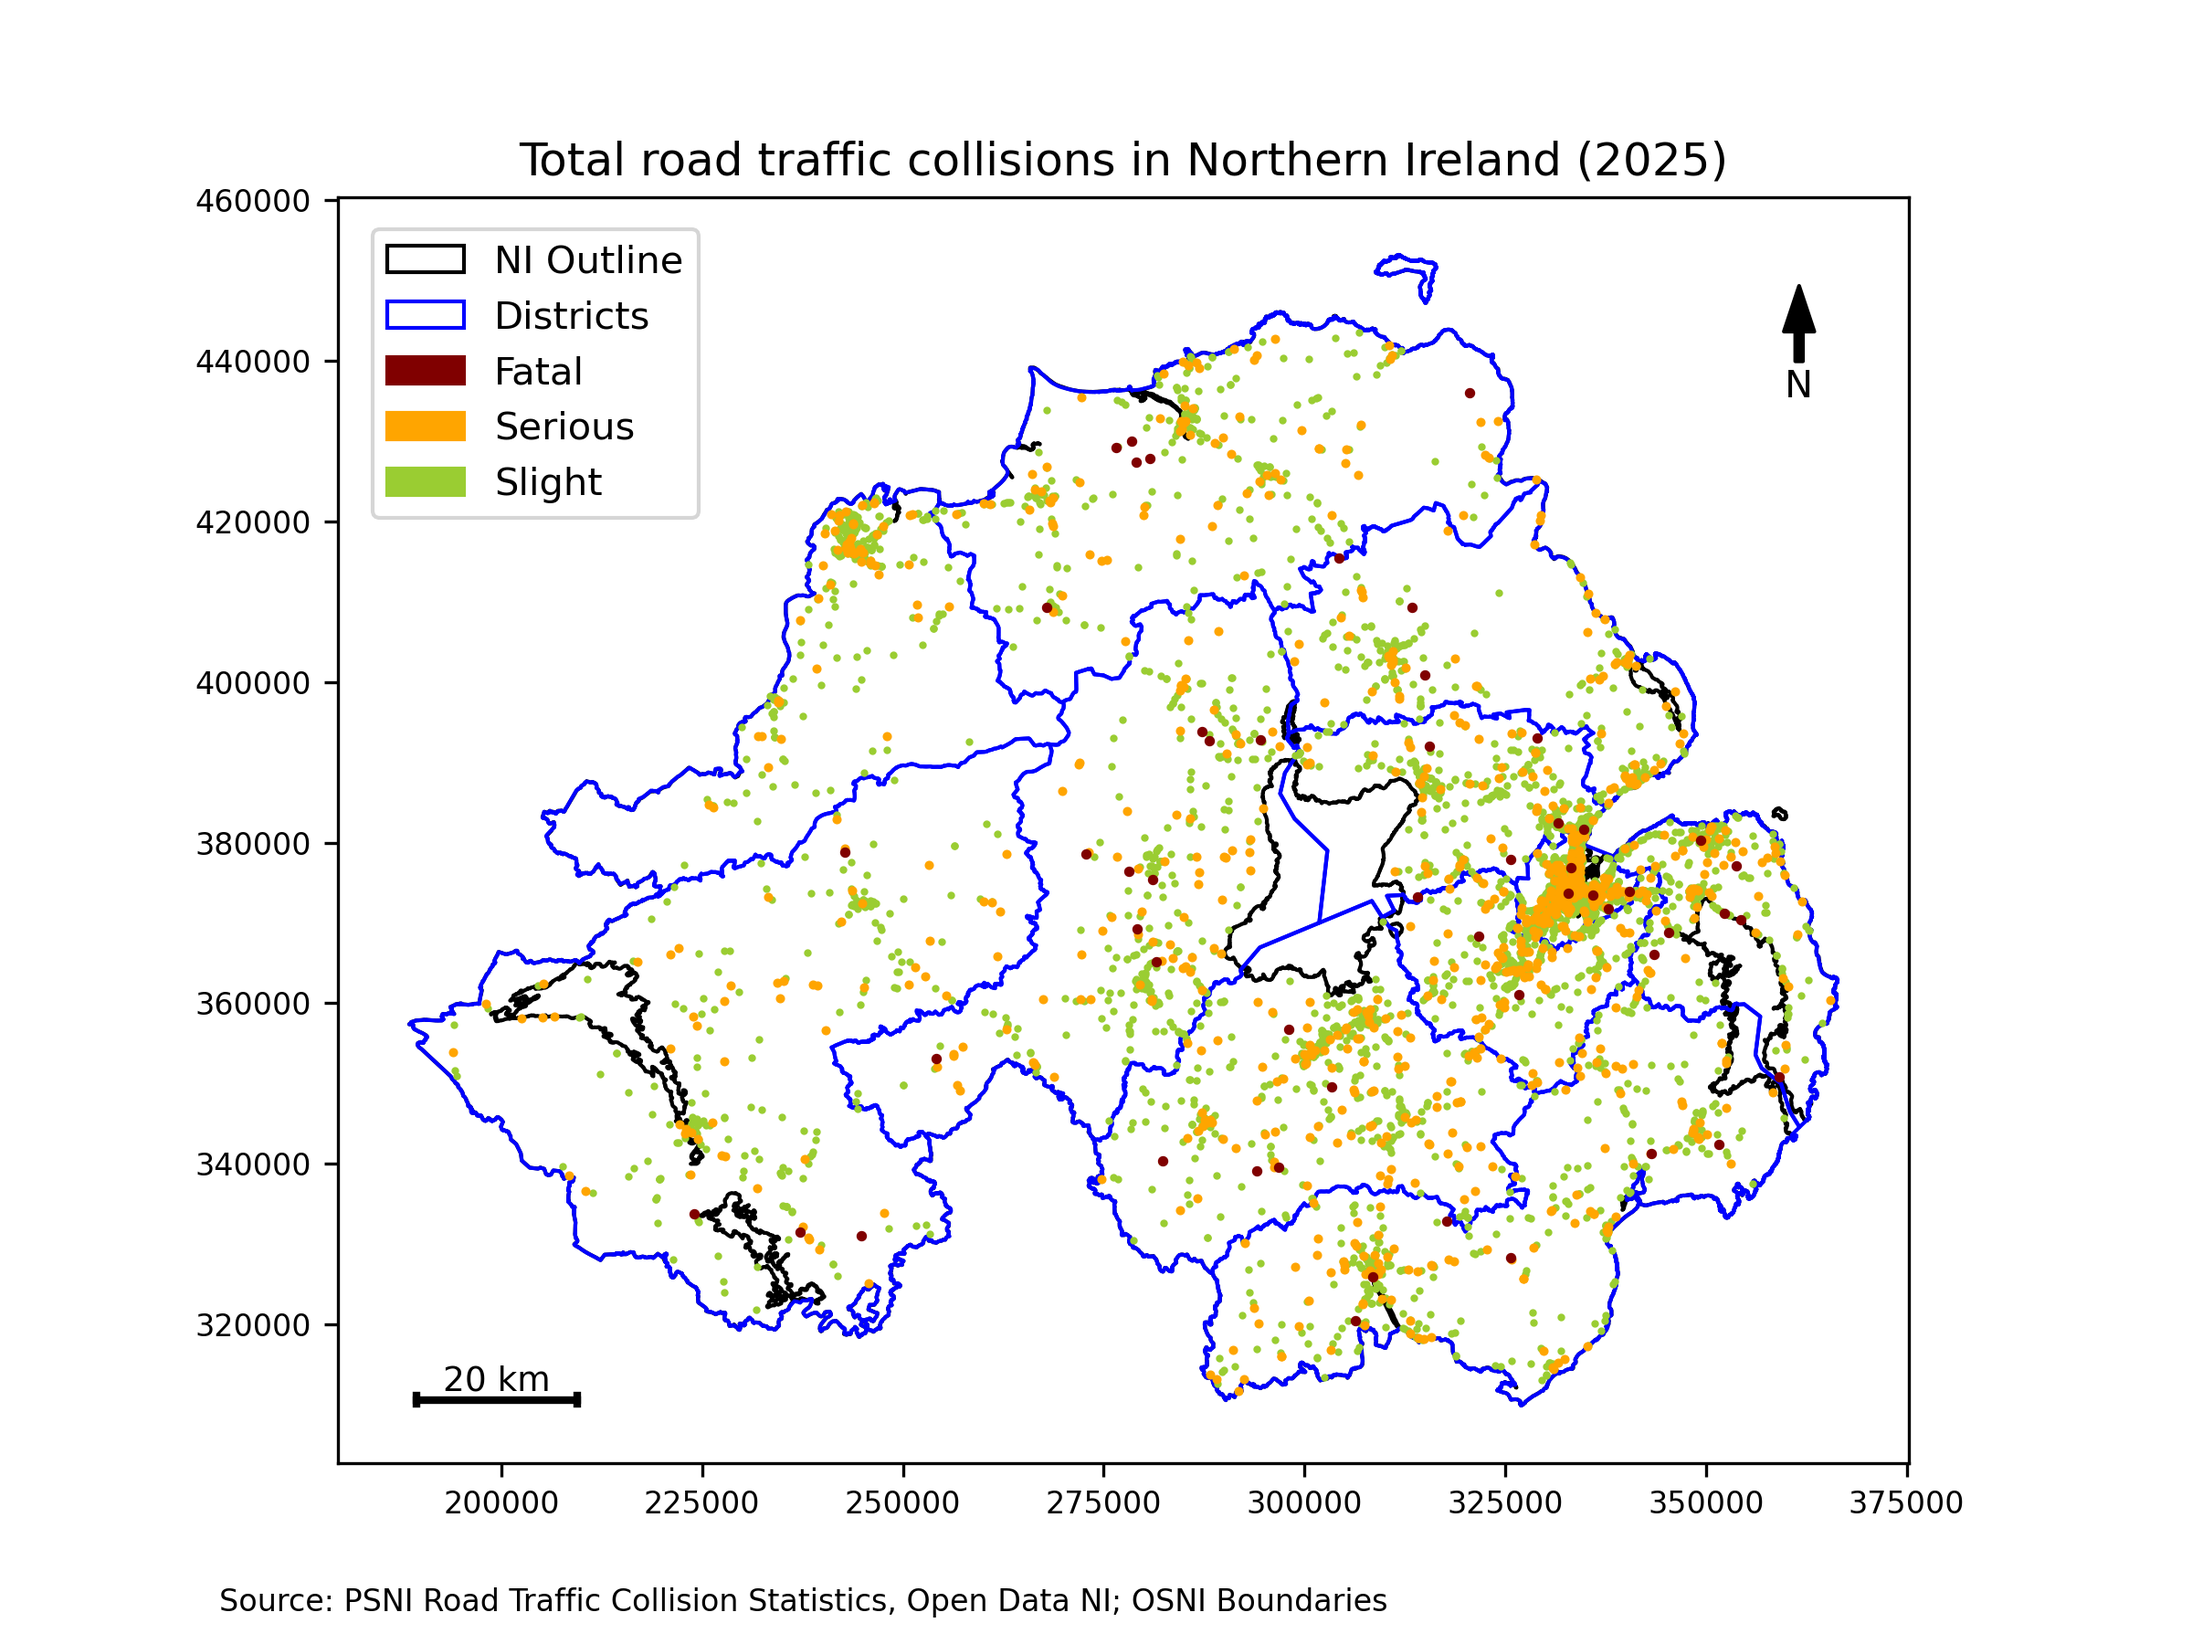
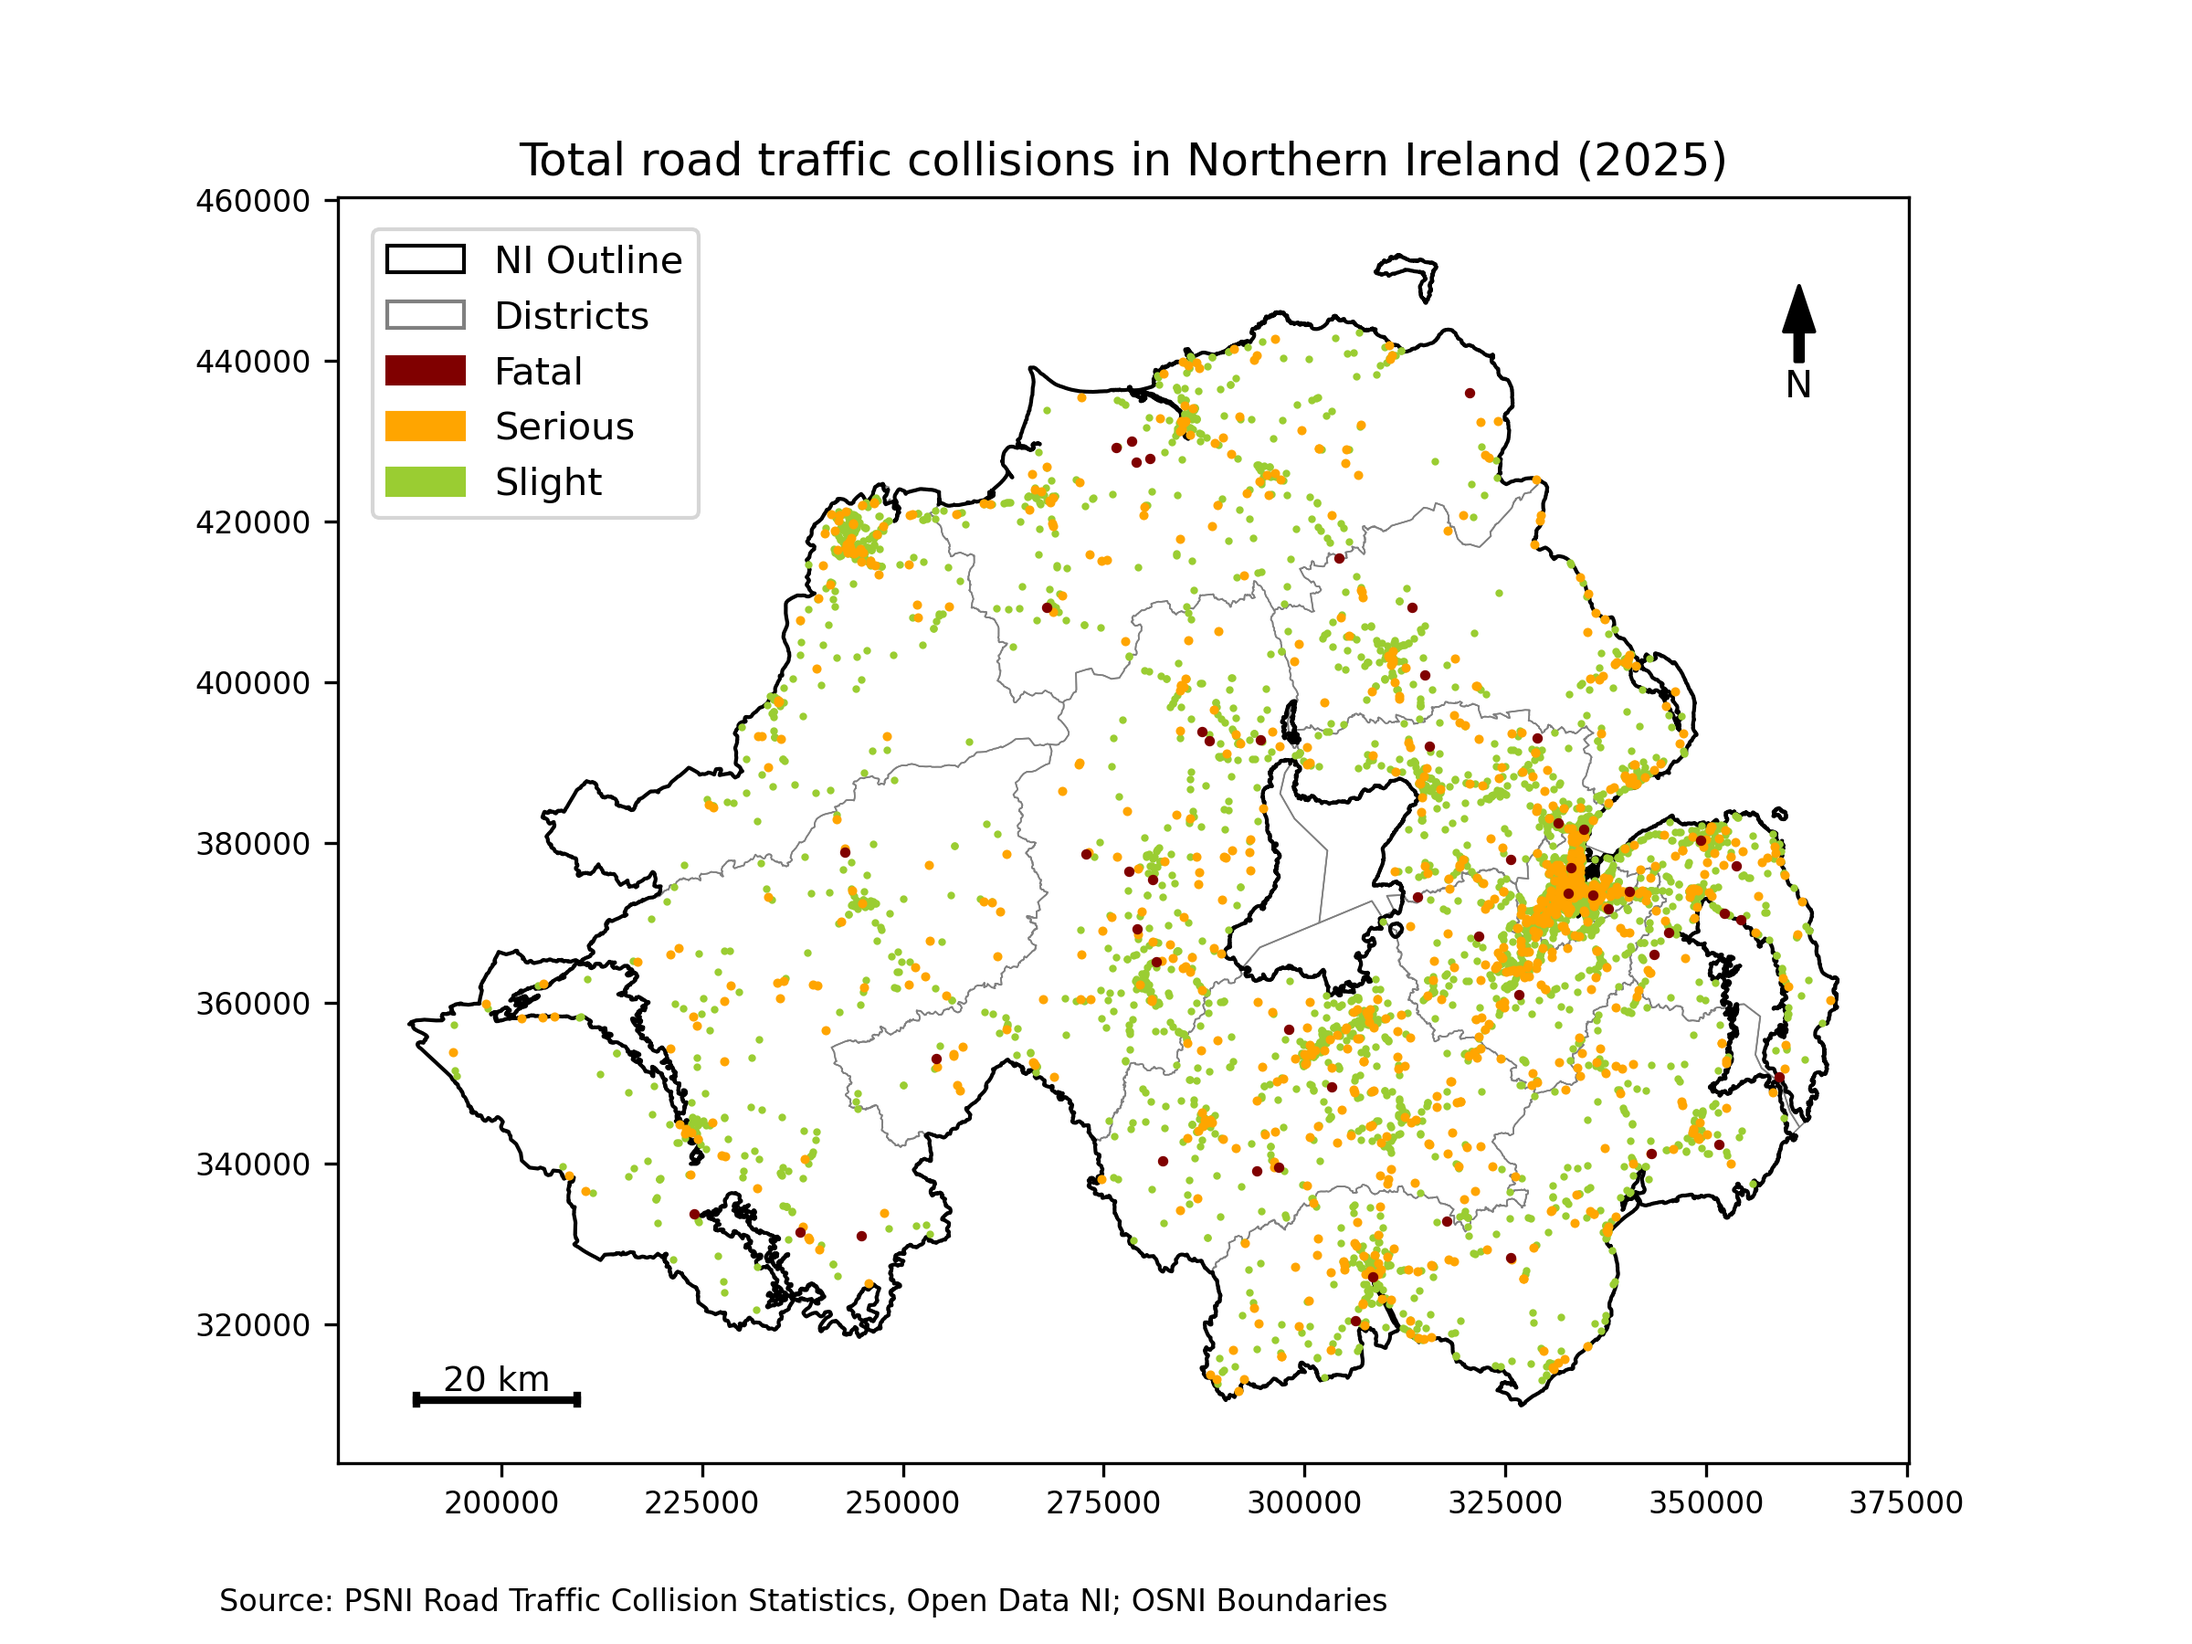
Map improvement
changing colour and line width for districts

diff --git a/ni_collision_analysis.py b/ni_collision_analysis.py
@@ -310,8 +310,9 @@ districts = districts.to_crs(epsg=29901)
 
 # Area is being plotted for both ni outline and districts
 fig, ax = plt.subplots(figsize=(8, 6))
-outline.plot(ax=ax, facecolor="none", edgecolor="black")
-districts.plot(ax=ax, facecolor="none", edgecolor="blue")
+districts.plot(ax=ax, facecolor="none", edgecolor="grey", linewidth=0.4)
+outline.plot(ax=ax, facecolor="none", edgecolor="black", linewidth=1)
+
 
 # Plot collision points by severity
 fatal_points = collisions_gdf[collisions_gdf["a_type"] == 1]
@@ -325,7 +326,7 @@ fatal_points.plot(ax=ax, color="maroon", markersize=3)
 
 # Boundaries legend
 outline_patch = mpatches.Patch(edgecolor="black", facecolor="none", label="NI Outline")
-district_patch = mpatches.Patch(edgecolor="blue", facecolor="none", label="Districts")
+district_patch = mpatches.Patch(edgecolor="grey", facecolor="none", label="Districts")
 
 # Collisions legend
 fatal_patch = mpatches.Patch(color="maroon", label="Fatal")
